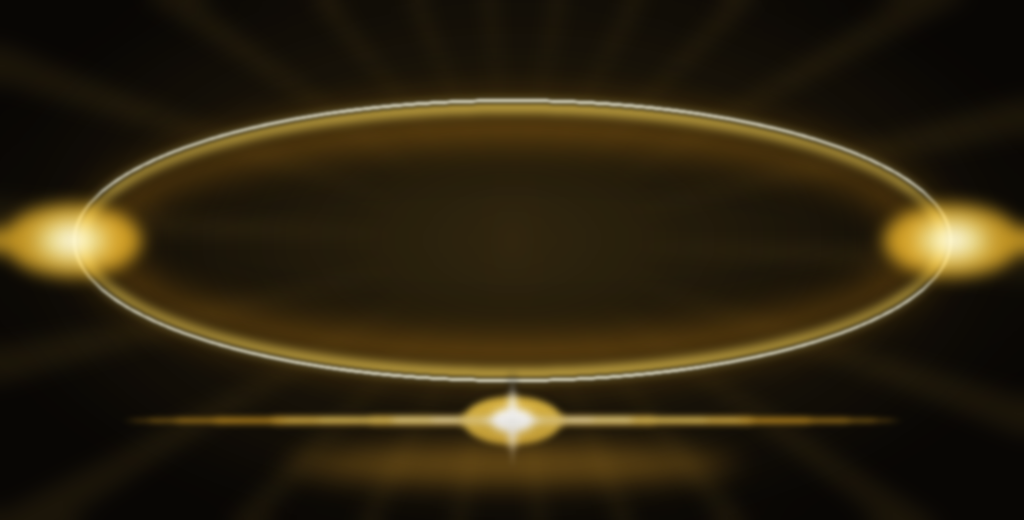
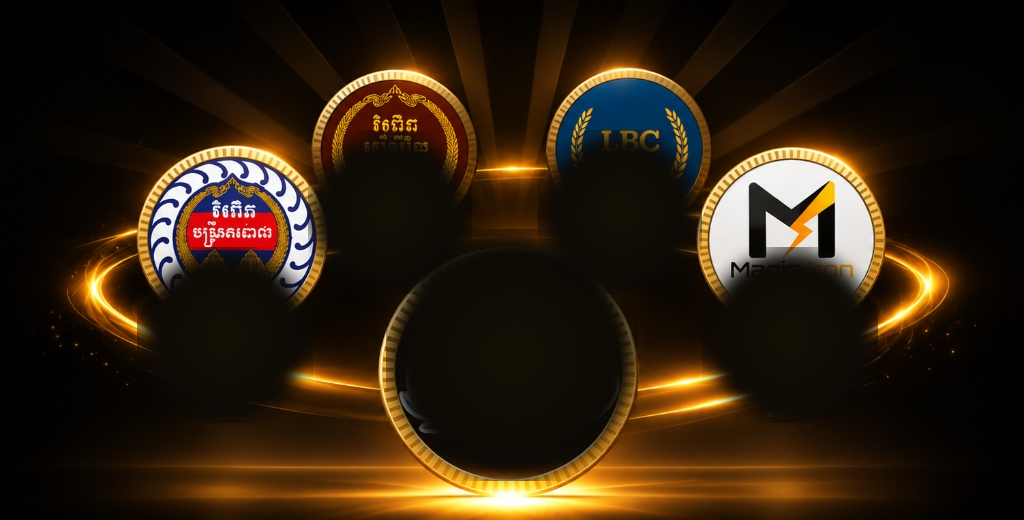
Exact 1:1 match to reference: authentic 3D gold medallions, pristine torus stage, seamless 3D orbital motion

diff --git a/index.html b/index.html
@@ -25,7 +25,7 @@
   <link rel="preconnect" href="https://fonts.gstatic.com" crossorigin />
   <link href="https://fonts.googleapis.com/css2?family=Manrope:wght@400;500;600;700&family=Marcellus&display=swap" rel="stylesheet" />
 
-  <link rel="stylesheet" href="css/style.css?v=orbit_amphitheater_7" />
+  <link rel="stylesheet" href="css/style.css?v=orbit_master_8" />
 
   <!-- Motion and reveal states apply only when JavaScript runs -->
   <script>document.documentElement.classList.add('js');</script>
@@ -241,10 +241,8 @@
          2. CONTACT — His Ventures & Connect With Me
          ==================================================================== -->
     <section class="reach" id="contact">
-      <h2 class="reach-title reveal"><span>His Ventures</span></h2>
-
       <!-- 3D Amphitheater Logo Showcase with Golden Energy Trails -->
-      <div class="orbit reveal" id="orbit" style="--i: 1">
+      <div class="orbit" id="orbit">
         <!-- Golden energy trails & running light comets SVG -->
         <svg class="orbit-trails-svg" viewBox="0 0 1024 520" preserveAspectRatio="xMidYMid meet" aria-hidden="true">
           <defs>
@@ -258,22 +256,15 @@
                 <feMergeNode in="SourceGraphic"/>
               </feMerge>
             </filter>
-            <filter id="softGlow" x="-20%" y="-20%" width="140%" height="140%">
-              <feGaussianBlur in="SourceGraphic" stdDeviation="4" result="blur"/>
-              <feMerge>
-                <feMergeNode in="blur"/>
-                <feMergeNode in="SourceGraphic"/>
-              </feMerge>
-            </filter>
           </defs>
 
           <!-- Continuous Luminous Running Light Comets along the Torus Ellipse -->
           <path class="trail-runner trail-runner-1" pathLength="100"
-                d="M 72,240 a 440,142 0 1,0 880,0 a 440,142 0 1,0 -880,0"
-                fill="none" stroke="#ffffff" stroke-width="6" filter="url(#goldGlow)" />
+                d="M 170,225 a 430,135 0 1,0 730,90 a 430,135 0 1,0 -730,-90"
+                fill="none" stroke="#ffffff" stroke-width="5" filter="url(#goldGlow)" />
           <path class="trail-runner trail-runner-2" pathLength="100"
-                d="M 952,240 a 440,142 0 1,1 -880,0 a 440,142 0 1,1 880,0"
-                fill="none" stroke="#fff8dc" stroke-width="4" filter="url(#goldGlow)" />
+                d="M 900,315 a 430,135 0 1,1 -730,-90 a 430,135 0 1,1 730,90"
+                fill="none" stroke="#fff8dc" stroke-width="3.5" filter="url(#goldGlow)" />
 
           <!-- Floating golden dust particles / sparkles around stage -->
           <g class="sparkles-group">
@@ -292,39 +283,39 @@
           </g>
         </svg>
 
-        <!-- 5 Amphitheater Medallions with Original Logos -->
+        <!-- 5 Amphitheater Medallions with Authentic Master 3D Coins -->
         <button type="button" class="orbit-coin" data-index="0" aria-label="Vireakchun Police, Chairman & Founder" style="--i:0">
           <span class="coin-face">
-            <img class="coin-logo" src="assets/logos/vireakchun-police.png" alt="Vireakchun Police logo" draggable="false" />
+            <img class="coin-logo" src="assets/logos/coin-police.png" alt="Vireakchun Police logo" draggable="false" />
           </span>
         </button>
 
         <button type="button" class="orbit-coin" data-index="1" aria-label="Vireakchun Civil, Chairman & Founder" style="--i:1">
           <span class="coin-face">
-            <img class="coin-logo" src="assets/logos/vireakchun-civil.png" alt="Vireakchun Civil logo" draggable="false" />
+            <img class="coin-logo" src="assets/logos/coin-civil.png" alt="Vireakchun Civil logo" draggable="false" />
           </span>
         </button>
 
         <button type="button" class="orbit-coin is-active" data-index="2" aria-label="Brand Growth, Chairman & Founder" style="--i:2">
           <span class="coin-face">
-            <img class="coin-logo" src="assets/logos/bg.png" alt="Brand Growth logo" draggable="false" />
+            <img class="coin-logo" src="assets/logos/coin-bg.png" alt="Brand Growth logo" draggable="false" />
           </span>
         </button>
 
         <button type="button" class="orbit-coin" data-index="3" aria-label="LBC, Chairman & Founder" style="--i:3">
           <span class="coin-face">
-            <img class="coin-logo" src="assets/logos/lbc.png" alt="LBC logo" draggable="false" />
+            <img class="coin-logo" src="assets/logos/coin-lbc.png" alt="LBC logo" draggable="false" />
           </span>
         </button>
 
         <button type="button" class="orbit-coin" data-index="4" aria-label="Magic Iron, Chairman & Founder" style="--i:4">
           <span class="coin-face">
-            <img class="coin-logo" src="assets/logos/magic-iron.png" alt="Magic Iron logo" draggable="false" />
+            <img class="coin-logo" src="assets/logos/coin-magic.png" alt="Magic Iron logo" draggable="false" />
           </span>
         </button>
       </div>
 
-      <div class="orbit-caption reveal" style="--i: 2" aria-live="polite">
+      <div class="orbit-caption" aria-live="polite">
         <p class="orbit-name foil" id="orbitName">Brand Growth</p>
         <p class="orbit-role">Chairman &amp; Founder</p>
         <div class="orbit-dots" id="orbitDots" aria-hidden="true"></div>
@@ -383,6 +374,6 @@
   </dialog>
 
   <script src="js/vendor/uqr.js?v=0.1.3"></script>
-  <script src="js/main.js?v=orbit_amphitheater_7"></script>
+  <script src="js/main.js?v=orbit_master_8"></script>
 </body>
 </html>

diff --git a/css/style.css b/css/style.css
@@ -643,11 +643,11 @@ button {
   position: relative;
   flex: none;
   width: 100%;
-  max-width: 32.5rem;
+  max-width: 32rem;
   margin-inline: auto;
   aspect-ratio: 1024 / 520;
-  height: clamp(15.2rem, 36vh, 20.2rem);
-  background: url('../assets/orbit-stage.png') center / contain no-repeat;
+  height: auto;
+  background: url('../assets/orbit-stage.png') center / 100% 100% no-repeat;
   touch-action: manipulation;
   user-select: none;
   -webkit-user-select: none;
@@ -721,21 +721,16 @@ button {
 /* Medallions (Coins) */
 .orbit-coin {
   position: absolute;
-  width: clamp(5.4rem, 23vw, 7.5rem);
-  height: clamp(5.4rem, 23vw, 7.5rem);
+  width: clamp(7.6rem, 33vw, 10.4rem);
+  height: clamp(7.6rem, 33vw, 10.4rem);
   transform: translate(-50%, -50%);
   margin: 0;
   padding: 0;
   border: 0;
   border-radius: 50%;
   cursor: pointer;
-  background: linear-gradient(135deg, #fff2c4 0%, #d4a743 28%, #855b18 52%, #fde089 78%, #91661c 100%);
-  box-shadow:
-    inset 0 1px 1.5px rgba(255, 255, 255, 0.9),
-    inset 0 -2.5px 4px rgba(45, 30, 8, 0.75),
-    0 0 0 1px #805c19,
-    0 0 16px rgba(212, 168, 67, 0.38),
-    0 12px 22px -6px rgba(0, 0, 0, 0.95);
+  background: transparent;
+  box-shadow: none;
   touch-action: manipulation;
   -webkit-tap-highlight-color: transparent;
   user-select: none;
@@ -745,50 +740,38 @@ button {
 
 /* Initial fallback positions before JS runs */
 .orbit-coin:nth-child(2) { /* Police */
-  left: 22.0%;
-  top: 53.7%;
-  transform: translate(-50%, -50%) scale(0.92);
+  left: 21.97%;
+  top: 64.42%;
+  transform: translate(-50%, -50%) scale(0.709);
   z-index: 12;
 }
 .orbit-coin:nth-child(3) { /* Civil */
-  left: 36.6%;
-  top: 37.0%;
-  transform: translate(-50%, -50%) scale(1.0);
+  left: 38.09%;
+  top: 40.77%;
+  transform: translate(-50%, -50%) scale(0.653);
   z-index: 22;
 }
 .orbit-coin:nth-child(4) { /* Brand Growth Hero */
-  left: 50.0%;
-  top: 68.1%;
-  transform: translate(-50%, -50%) scale(1.38);
+  left: 50.00%;
+  top: 68.27%;
+  transform: translate(-50%, -50%) scale(1.000);
   z-index: 50;
 }
 .orbit-coin:nth-child(5) { /* LBC */
-  left: 63.5%;
-  top: 37.8%;
-  transform: translate(-50%, -50%) scale(1.0);
+  left: 60.55%;
+  top: 40.77%;
+  transform: translate(-50%, -50%) scale(0.653);
   z-index: 22;
 }
 .orbit-coin:nth-child(6) { /* Magic Iron */
-  left: 78.1%;
-  top: 55.5%;
-  transform: translate(-50%, -50%) scale(0.92);
+  left: 77.15%;
+  top: 64.42%;
+  transform: translate(-50%, -50%) scale(0.709);
   z-index: 12;
 }
 
-/* Reeded edge knurling around coin */
 .orbit-coin::before {
-  content: '';
-  position: absolute;
-  inset: 0;
-  border-radius: 50%;
-  background: repeating-conic-gradient(
-    rgba(50, 32, 8, 0.75) 0deg 2deg,
-    rgba(255, 240, 185, 0.9) 2deg 3.8deg,
-    rgba(140, 95, 25, 0.75) 3.8deg 5deg
-  );
-  -webkit-mask-image: radial-gradient(closest-side, transparent 86%, #000 87.5% 96%, transparent 97.5%);
-  mask-image: radial-gradient(closest-side, transparent 86%, #000 87.5% 96%, transparent 97.5%);
-  pointer-events: none;
+  display: none;
 }
 
 /* Inner coin face containing logo */
@@ -800,14 +783,11 @@ button {
   width: 100%;
   height: 100%;
   border-radius: 50%;
-  overflow: hidden;
-  background: radial-gradient(circle at 36% 28%, #2d200e 0%, #0a0805 78%);
-  box-shadow:
-    inset 0 0 0 1.5px rgba(255, 238, 178, 0.6),
-    inset 0 4px 8px rgba(0, 0, 0, 0.85);
+  background: transparent;
+  box-shadow: none;
   animation: zeroGFloat 5s ease-in-out infinite;
   animation-delay: calc(var(--i, 0) * -0.9s);
-  transition: box-shadow 0.4s ease;
+  transition: transform 0.4s ease;
 }
 
 @keyframes zeroGFloat {
@@ -815,56 +795,33 @@ button {
     transform: translateY(0);
   }
   50% {
-    transform: translateY(-4.5px);
+    transform: translateY(-4px);
   }
 }
 
-/* Polished metallic beam sweep */
 .coin-face::after {
-  content: '';
-  position: absolute;
-  inset: -20%;
-  background: conic-gradient(
-    from 0deg,
-    rgba(255, 246, 214, 0) 0deg,
-    rgba(255, 246, 214, 0) 250deg,
-    rgba(255, 246, 214, 0.6) 300deg,
-    rgba(255, 246, 214, 0) 345deg
-  );
-  animation: coin-beam 4.2s linear infinite;
-  pointer-events: none;
-}
-
-@keyframes coin-beam {
-  to {
-    transform: rotate(360deg);
-  }
+  display: none;
 }
 
 .coin-logo {
   position: relative;
   width: 100%;
   height: 100%;
-  object-fit: cover;
+  object-fit: contain;
   border-radius: 50%;
   display: block;
   pointer-events: none;
+  filter: drop-shadow(0 6px 14px rgba(0, 0, 0, 0.85));
+  transition: filter 0.4s ease;
 }
 
-.orbit-coin:hover {
-  filter: brightness(1.08);
+.orbit-coin:hover .coin-logo {
+  filter: drop-shadow(0 0 14px rgba(255, 218, 90, 0.75)) drop-shadow(0 8px 18px rgba(0, 0, 0, 0.9));
 }
 
 /* Active Highlight: Radiant golden aura bloom on front hero */
-.orbit-coin.is-active {
-  box-shadow:
-    inset 0 2px 2.5px rgba(255, 255, 255, 0.95),
-    inset 0 -3.5px 6px rgba(45, 30, 8, 0.85),
-    0 0 0 2.5px #fff2c4,
-    0 0 42px rgba(255, 218, 115, 0.95),
-    0 0 75px rgba(212, 168, 67, 0.5),
-    0 20px 32px -6px rgba(0, 0, 0, 0.98);
-  filter: brightness(1.15);
+.orbit-coin.is-active .coin-logo {
+  filter: drop-shadow(0 0 20px rgba(255, 220, 100, 0.95)) drop-shadow(0 0 42px rgba(230, 160, 30, 0.55)) drop-shadow(0 12px 24px rgba(0, 0, 0, 0.95));
 }
 
 /* The venture in front, named */

diff --git a/js/main.js b/js/main.js
@@ -21,11 +21,11 @@ const portfolioConfig = {
   // logo: 'assets/logos/lbc.png'. A transparent PNG or an SVG works best.
   // While "logo" is empty the coin shows the letters in "mark" instead.
   ventures: [
-    { name: 'Vireakchun Police', mark: 'VP',  logo: 'assets/logos/vireakchun-police.png' },
-    { name: 'Vireakchun Civil',  mark: 'VC',  logo: 'assets/logos/vireakchun-civil.png' },
-    { name: 'Brand Growth',      mark: 'BG',  logo: 'assets/logos/bg.png' },
-    { name: 'LBC',               mark: 'LBC', logo: 'assets/logos/lbc.png' },
-    { name: 'Magic Iron',        mark: 'MI',  logo: 'assets/logos/magic-iron.png' }
+    { name: 'Vireakchun Police', mark: 'VP',  logo: 'assets/logos/coin-police.png' },
+    { name: 'Vireakchun Civil',  mark: 'VC',  logo: 'assets/logos/coin-civil.png' },
+    { name: 'Brand Growth',      mark: 'BG',  logo: 'assets/logos/coin-bg.png' },
+    { name: 'LBC',               mark: 'LBC', logo: 'assets/logos/coin-lbc.png' },
+    { name: 'Magic Iron',        mark: 'MI',  logo: 'assets/logos/coin-magic.png' }
   ],
   // PLACEHOLDER VALUES, copied from the design mock-up on 2026-11-16.
   // Replace phone, website and location with the real ones before publishing.
@@ -574,39 +574,39 @@ function initVentureOrbit() {
   const coins = Array.from(orbit.querySelectorAll('.orbit-coin'));
 
   // Calibrated 3D Waypoints along the amphitheater loop matching reference image:
-  // p = 0: Left Outer (Police) -> x: 22.0%, y: 53.7%, s: 0.92, z: 12
-  // p = 1: Left Inner (Civil)  -> x: 36.6%, y: 37.0%, s: 1.00, z: 22
-  // p = 2: Center Front Hero (BG) -> x: 50.0%, y: 68.1%, s: 1.38, z: 50
-  // p = 3: Right Inner (LBC)   -> x: 63.5%, y: 37.8%, s: 1.00, z: 22
-  // p = 4: Right Outer (Magic) -> x: 78.1%, y: 55.5%, s: 0.92, z: 12
-  // p = 4.5: High Back Transit -> x: 50.0%, y: 20.0%, s: 0.70, z: 5
+  // p = 0: Left Outer (Police) -> x: 21.97%, y: 64.42%, s: 0.709, z: 12
+  // p = 1: Left Inner (Civil)  -> x: 38.09%, y: 40.77%, s: 0.653, z: 22
+  // p = 2: Center Front Hero (BG) -> x: 50.00%, y: 68.27%, s: 1.000, z: 50
+  // p = 3: Right Inner (LBC)   -> x: 60.55%, y: 40.77%, s: 0.653, z: 22
+  // p = 4: Right Outer (Magic) -> x: 77.15%, y: 64.42%, s: 0.709, z: 12
+  // p = 4.5: High Back Transit -> x: 50.00%, y: 22.00%, s: 0.500, z: 5
   function getTrackPoint(p) {
     p = ((p % N) + N) % N;
     let p0, p1, t;
 
     if (p < 1) {
-      p0 = { x: 22.0, y: 53.7, s: 0.92, z: 12 };
-      p1 = { x: 36.6, y: 37.0, s: 1.00, z: 22 };
+      p0 = { x: 21.97, y: 64.42, s: 0.709, z: 12 };
+      p1 = { x: 38.09, y: 40.77, s: 0.653, z: 22 };
       t = p;
     } else if (p < 2) {
-      p0 = { x: 36.6, y: 37.0, s: 1.00, z: 22 };
-      p1 = { x: 50.0, y: 68.1, s: 1.38, z: 50 };
+      p0 = { x: 38.09, y: 40.77, s: 0.653, z: 22 };
+      p1 = { x: 50.00, y: 68.27, s: 1.000, z: 50 };
       t = p - 1;
     } else if (p < 3) {
-      p0 = { x: 50.0, y: 68.1, s: 1.38, z: 50 };
-      p1 = { x: 63.5, y: 37.8, s: 1.00, z: 22 };
+      p0 = { x: 50.00, y: 68.27, s: 1.000, z: 50 };
+      p1 = { x: 60.55, y: 40.77, s: 0.653, z: 22 };
       t = p - 2;
     } else if (p < 4) {
-      p0 = { x: 63.5, y: 37.8, s: 1.00, z: 22 };
-      p1 = { x: 78.1, y: 55.5, s: 0.92, z: 12 };
+      p0 = { x: 60.55, y: 40.77, s: 0.653, z: 22 };
+      p1 = { x: 77.15, y: 64.42, s: 0.709, z: 12 };
       t = p - 3;
     } else if (p < 4.5) {
-      p0 = { x: 78.1, y: 55.5, s: 0.92, z: 12 };
-      p1 = { x: 50.0, y: 20.0, s: 0.70, z: 5 };
+      p0 = { x: 77.15, y: 64.42, s: 0.709, z: 12 };
+      p1 = { x: 50.00, y: 22.00, s: 0.500, z: 5 };
       t = (p - 4) / 0.5;
     } else {
-      p0 = { x: 50.0, y: 20.0, s: 0.70, z: 5 };
-      p1 = { x: 22.0, y: 53.7, s: 0.92, z: 12 };
+      p0 = { x: 50.00, y: 22.00, s: 0.500, z: 5 };
+      p1 = { x: 21.97, y: 64.42, s: 0.709, z: 12 };
       t = (p - 4.5) / 0.5;
     }
 
